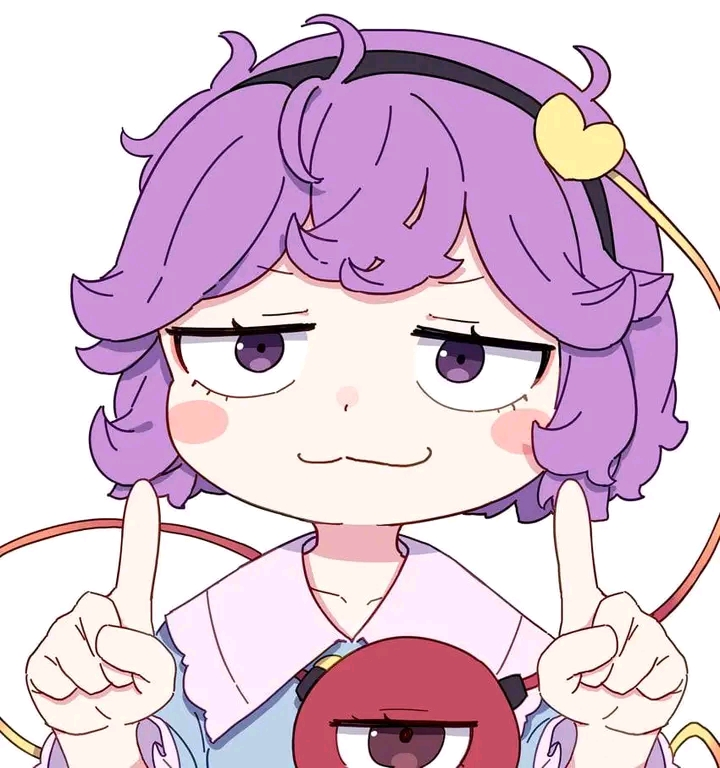
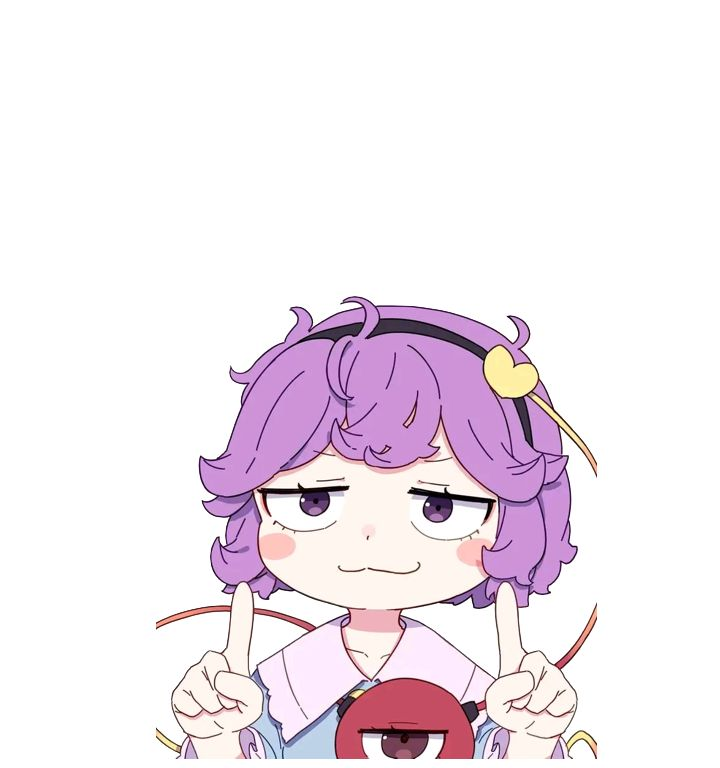
tienda_de_arte

diff --git a/public/cuadroo.html b/public/cuadroo.html
@@ -1,0 +1,107 @@
+<!DOCTYPE html>
+<html lang="en">
+<head>
+  <meta charset="UTF-8">
+  <meta name="viewport" content="width=device-width, initial-scale=1.0">
+  <title>Detalles del Cuadro</title>
+  <style>
+    body {
+      font-family: Arial, sans-serif;
+      margin: 0;
+      padding: 0;
+      background: url('./assets/VISTACUADRO.jpg') no-repeat center center fixed;
+      background-size: cover;
+      display: flex;
+      justify-content: center;
+      align-items: center;
+      min-height: 100vh;
+    }
+
+    .details-container {
+      text-align: center;
+      background: rgba(225, 228, 178, 0.8); /* Fondo blanco semitransparente */
+      box-shadow: 0 4px 8px rgba(0, 0, 0, 0.2);
+      padding: 20px;
+      border-radius: 10px;
+      width: 90%;
+      max-width: 600px;
+    }
+
+    .details-container img {
+      width: 100%;
+      max-width: 400px;
+      border-radius: 10px;
+      margin-bottom: 20px;
+    }
+
+    .details-container h1 {
+      font-size: 24px;
+      margin-bottom: 10px;
+    }
+
+    .details-container p {
+      font-size: 16px;
+      color: #555;
+    }
+
+    .details-container a {
+      display: inline-block;
+      margin-top: 20px;
+      padding: 10px 20px;
+      background: #8f7645;
+      color: #f0e5be;
+      text-decoration: none;
+      border-radius: 5px;
+    }
+
+    .details-container a:hover {
+      background: #111311;
+    }
+  </style>
+</head>
+<body>
+  <div class="details-container">
+    <img id="cuadro-image" alt="Imagen del cuadro">
+    <h1 id="cuadro-title">Título del Cuadro</h1>
+    <p id="cuadro-description">Descripción del cuadro.</p>
+    <a href="tienda.html">Volver a la Tienda</a>
+  </div>
+
+  <script>
+    // Obtener el parámetro "id" de la URL
+    const params = new URLSearchParams(window.location.search);
+    const cuadroId = params.get('id');
+
+    // Datos de ejemplo para los cuadros
+    const cuadrosData = {
+      cuadroo1: {
+        title: "Dibujo 1",
+        description: "Este es el primer dibujo de la colección, destacando por su estilo único y vibrante. Sus líneas dinámicas y contrastes de colores transmiten una energía que invita a explorar los detalles más sutiles de la obra.",
+        image: "./assets/DIBUJO1.png"
+      },
+      cuadroo2: {
+        title: "Dibujo 2",
+        description: "Este es el segundo dibujo, con trazos que evocan emociones profundas. La composición refleja un equilibrio entre caos y orden, capturando la esencia de emociones humanas complejas con una estética cautivadora.",
+        image: "./assets/DIBUJO2.png"
+      },
+      cuadroo3: {
+        title: "Dibujo 3",
+        description: "El tercer dibujo se caracteriza por su combinación de colores vivos y diseño abstracto. Los patrones entrelazados crean una narrativa visual que invita al espectador a interpretar significados más allá de la superficie.",
+        image: "./assets/DIBUJO3.png"
+      }
+    };    
+
+    // Buscar los detalles del cuadro actual
+    const cuadroData = cuadrosData[cuadroId] || {
+      title: "Cuadro no encontrado",
+      description: "No se pudo encontrar información sobre este cuadro.",
+      image: "./assets/not-found.png" // Imagen por defecto en caso de error
+    };
+
+    // Mostrar los datos del cuadro en la página
+    document.getElementById('cuadro-image').src = cuadroData.image;
+    document.getElementById('cuadro-title').textContent = cuadroData.title;
+    document.getElementById('cuadro-description').textContent = cuadroData.description;
+  </script>
+</body>
+</html>

diff --git a/public/scripts/taberna.js b/public/scripts/taberna.js
@@ -47,7 +47,7 @@ async function loadTaberna() {
   // Crear cuadro semitransparente
   const transparentBox = new PIXI.Graphics();
   transparentBox.beginFill(0x000000, 0.1); // Color negro con opacidad 0.3
-  transparentBox.drawRect(2150, 69, 250, 420); // Tamaño y posición
+  transparentBox.drawRect(1200, 40, 150, 340); // Tamaño y posición
   transparentBox.endFill();
 
   transparentBox.interactive = true;
@@ -72,7 +72,7 @@ async function loadTaberna() {
 
 
   // Cargar el personaje
-  characterSprite = await loadCharacter(100, 100, 0.4, 0.4);
+  characterSprite = await loadCharacter(700, 700, 2.5, 2.5);
 
   
 
@@ -97,7 +97,7 @@ async function addLoreMaster() {
     LoreMasterSprite.x = app.screen.width * 0.4; // Posición en X
     LoreMasterSprite.y = app.screen.height * 0.55; // Posición en Y
     LoreMasterSprite.anchor.set(0.5, 0.5);
-    LoreMasterSprite.scale.set(2, 2);
+    LoreMasterSprite.scale.set(1, 1);
 
     app.stage.addChild(LoreMasterSprite);
 
@@ -111,7 +111,7 @@ async function addGrunt() {
     GruntSprite.x = app.screen.width * 0.1; // Posición en X
     GruntSprite.y = app.screen.height * 0.55; // Posición en Y
     GruntSprite.anchor.set(0.5, 0.5);
-    GruntSprite.scale.set(2, 2);
+    GruntSprite.scale.set(1, 1);
 
     app.stage.addChild(GruntSprite);
 
@@ -125,7 +125,7 @@ async function addnewbie2() {
   newbie2Sprite.x = app.screen.width * 0.6; // Posición en X
   newbie2Sprite.y = app.screen.height * 0.65; // Posición en Y
   newbie2Sprite.anchor.set(0.5, 0.5);
-  newbie2Sprite.scale.set(1.3, 1.3);
+  newbie2Sprite.scale.set(0.7, 0.7);
 
   app.stage.addChild(newbie2Sprite);
 
@@ -139,7 +139,7 @@ async function addantenita2() {
   antenita2Sprite.x = app.screen.width * 0.8; // Posición en X
   antenita2Sprite.y = app.screen.height * 0.67; // Posición en Y
   antenita2Sprite.anchor.set(0.5, 0.5);
-  antenita2Sprite.scale.set(1.3, 1.3);
+  antenita2Sprite.scale.set(0.7, 0.7);
 
   app.stage.addChild(antenita2Sprite);
 
@@ -151,9 +151,9 @@ async function addGUILDMASTER() {
   const GUILDMASTERSprite = new PIXI.Sprite(GUILDMASTERTexture);
 
   GUILDMASTERSprite.x = app.screen.width * 0.7; // Posición en X
-  GUILDMASTERSprite.y = app.screen.height * 0.3; // Posición en Y
+  GUILDMASTERSprite.y = app.screen.height * 0.40; // Posición en Y
   GUILDMASTERSprite.anchor.set(0.5, 0.5);
-  GUILDMASTERSprite.scale.set(1.4, 1.4);
+  GUILDMASTERSprite.scale.set(0.6, 0.6);
 
   app.stage.addChild(GUILDMASTERSprite);
 

diff --git a/public/scripts/game.js b/public/scripts/game.js
@@ -21,7 +21,6 @@ let beerSprites = [];
 //SPRITES USING
 let characterSprite;
 let carreteSprite; // Sprite de la carreta
-let myownHouseSprite;
 
 //SOME DIFFERENT VARIABLES
 
@@ -43,7 +42,7 @@ async function loadMap() {
   app.stage.addChild(mapSprite);
 
   // Load and position the house image at the top-left corner
-  const houseTexture = await PIXI.Assets.load("./assets/house.png");
+  const houseTexture = await PIXI.Assets.load("./assets/profile4.png");
   const houseSprite = new PIXI.Sprite(houseTexture);
   
   houseSprite.x = 0; // Position it at the top-left corner
@@ -83,7 +82,6 @@ async function loadMap() {
 
   carreteSprite = await loadSomething("./assets/carreta1.png", 200, 200, 0.4, 0.4);
   characterSprite = await loadCharacter(1200, 320, 1, 1);
-  myownHouseSprite = await loadSomething("./assets/profile4.jpg", 1000, 600, 0.1, 0.1);
 
   mapSprite.on("pointerdown", (event) => {
     const position = event.data.global;
@@ -94,7 +92,6 @@ async function loadMap() {
     const currentTime = Date.now();
     const characterBounds = characterSprite.getBounds();
     const carretaBounds = carreteSprite.getBounds();
-    const myownHouseSpriteBounds = myownHouseSprite.getBounds();
 
     lienzoSprites.forEach((lienzoSprite, index) => {
       const lienzoBounds = lienzoSprite.getBounds();
@@ -139,15 +136,10 @@ async function loadMap() {
       window.location.href = "tienda.html";
     }
 
-    if (Math.abs(characterBounds.x - myownHouseSpriteBounds.x) < tolerance &&
-      Math.abs(characterBounds.y - myownHouseSpriteBounds.y) < tolerance) {
-      window.location.href = "owngallery.html";
-    }
-
     if (currentTime - lastCarreteMoveTime >= moveInterval) {
       // Si ha pasado un minuto, mueve la carreta
-      const randomX = Math.floor(Math.random() * (1000 - 400)) + 400;
-      const randomY = Math.floor(Math.random() * (1000 - 400)) + 400;
+      const randomX = Math.floor(Math.random() * (1200 - 725)) + 725;
+      const randomY = Math.floor(Math.random() * (900 - 300)) + 300;
       carreteSprite = moveCarrete(carreteSprite, randomX, randomY);
 
       // Actualiza el tiempo de la última vez que se movió la carreta

diff --git a/public/scripts/gallery2.js b/public/scripts/gallery2.js
@@ -42,16 +42,16 @@ async function loadGallery() {
 
   // Load the character
 
-  let element = await loadSomething('./assets/DIBUJO4.png', 100, 300, 1, 1);
+  let element = await loadSomething('./assets/DIBUJO4.png', 100, 300, 0.7, 0.7);
   defaultsSprites.push(element)
 
-  element = await loadSomething('./assets/DIBUJO5.png', 300, 330, 1, 1);
+  element = await loadSomething('./assets/DIBUJO5.png', 300, 330, 0.7, 0.7);
   defaultsSprites.push(element)
 
-  element = await loadSomething('./assets/PALOMITA.png', 1500, 600, 1.5, 1.5);
+  element = await loadSomething('./assets/PALOMITA.png', 1500, 600, 1, 1);
   defaultsSprites.push(element)
 
-  element = await loadSomething('./assets/emblem5.png', 1750, 400, 1, 1);
+  element = await loadSomething('./assets/emblem5.png', 1750, 400, 0.6, 0.6);
   defaultsSprites.push(element)
 
   characterSprite = await loadCharacter(600, 600, 2, 2);
